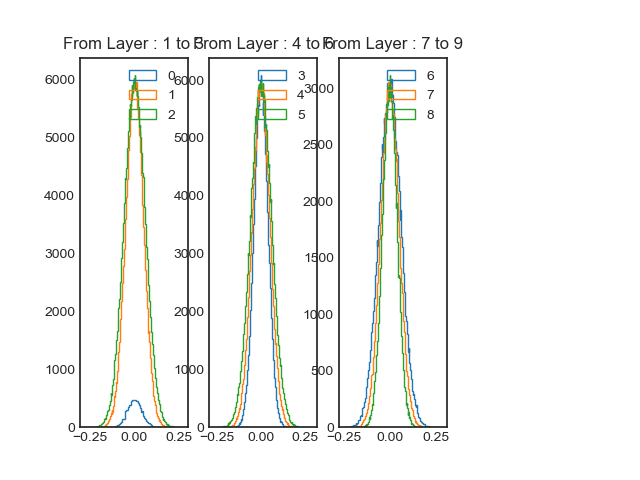
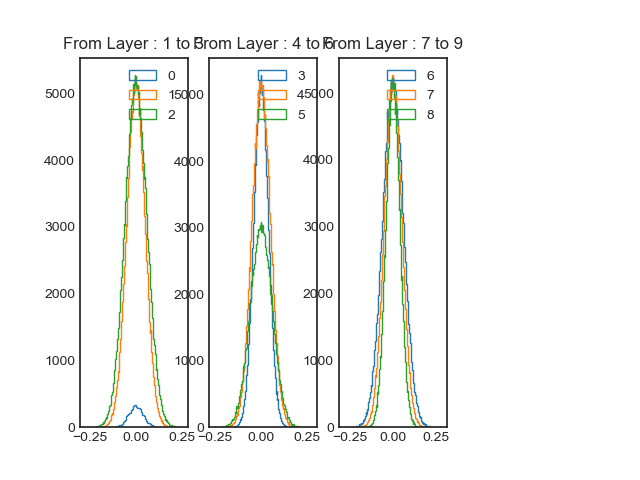
s

diff --git a/NeuralNetwork/Unfair/a.py b/NeuralNetwork/Unfair/a.py
@@ -65,13 +65,13 @@ def show_hist_of_weigt(all_weight_list,status='before'):
 seq = iaa.Sequential([
     iaa.Sometimes(0.01,
         iaa.Affine(
-            translate_percent={"x": (-0.2, 0.2), "y": (-0.2, 0.2)},
+            # translate_percent={"x": (-0.2, 0.2), "y": (-0.2, 0.2)},
             rotate=(-25, 25),
-            scale={"x": (0.8, 1.2), "y": (0.8, 1.2)},
+            # scale={"x": (0.8, 1.2), "y": (0.8, 1.2)},
         )
     ),
     iaa.Fliplr(1.0), 
-    iaa.Flipud(0.5), 
+    # iaa.Flipud(0.5), 
 ], random_order=True) # apply augmenters in random order
 # ================= DATA AUGMENTATION =================
 
@@ -87,13 +87,13 @@ class CNN():
 
     def getw(self): return self.w
 
-    def feedforward(self,input,stride=1,padding='SAME'):
+    def feedforward(self,input,stride=1,padding='VALID'):
         self.input  = input
         self.layer  = tf.nn.conv2d(input,self.w,strides=[1,stride,stride,1],padding=padding) 
         self.layerA = tf_elu(self.layer)
         return self.layerA 
 
-    def backprop(self,gradient,learning_rate_change,stride=1,padding='SAME'):
+    def backprop(self,gradient,learning_rate_change,stride=1,padding='VALID'):
         grad_part_1 = gradient 
         grad_part_2 = d_tf_elu(self.layer) 
         grad_part_3 = self.input
@@ -245,23 +245,23 @@ print_size = 1
 
 learning_rate = 0.00001
 learnind_rate_decay = 0.0
-beta1,beta2,adam_e = 0.9,0.999,1e-8
+beta1,beta2,adam_e = 0.9,0.9,1e-8
 
 # define class
-channel_sizes = 128
-l1 = CNN(5,3,channel_sizes,stddev=0.04)
-l2 = CNN(5,channel_sizes,channel_sizes,stddev=0.05)
-l3 = CNN(5,channel_sizes,channel_sizes,stddev=0.06)
+channel_sizes = 192
+l1 = CNN(2,3,channel_sizes,stddev=0.04)
+l2 = CNN(2,channel_sizes,channel_sizes,stddev=0.05)
+l3 = CNN(2,channel_sizes,channel_sizes,stddev=0.06)
 
-l4 = CNN(5,channel_sizes,channel_sizes,stddev=0.04)
-l5 = CNN(5,channel_sizes,channel_sizes,stddev=0.05)
-l6 = CNN(5,channel_sizes,channel_sizes,stddev=0.06)
+l4 = CNN(2,channel_sizes,channel_sizes,stddev=0.04)
+l5 = CNN(2,channel_sizes,channel_sizes,stddev=0.05)
+l6 = CNN(2,channel_sizes,channel_sizes,stddev=0.06)
 
-l7 = CNN(3,channel_sizes,channel_sizes,stddev=0.06)
-l8 = CNN(3,channel_sizes,channel_sizes,stddev=0.05)
-l9 = CNN(3,channel_sizes,channel_sizes,stddev=0.04)
+l7 = CNN(2,channel_sizes,channel_sizes,stddev=0.06)
+l8 = CNN(2,channel_sizes,channel_sizes,stddev=0.05)
+l9 = CNN(2,channel_sizes,channel_sizes,stddev=0.04)
 
-l10 = CNN(3,channel_sizes,channel_sizes,stddev=0.06)
+l10 = CNN(2,channel_sizes,channel_sizes,stddev=0.06)
 l11 = CNN(1,channel_sizes,channel_sizes,stddev=0.05)
 l12 = CNN(1,channel_sizes,10,stddev=0.04)
 
